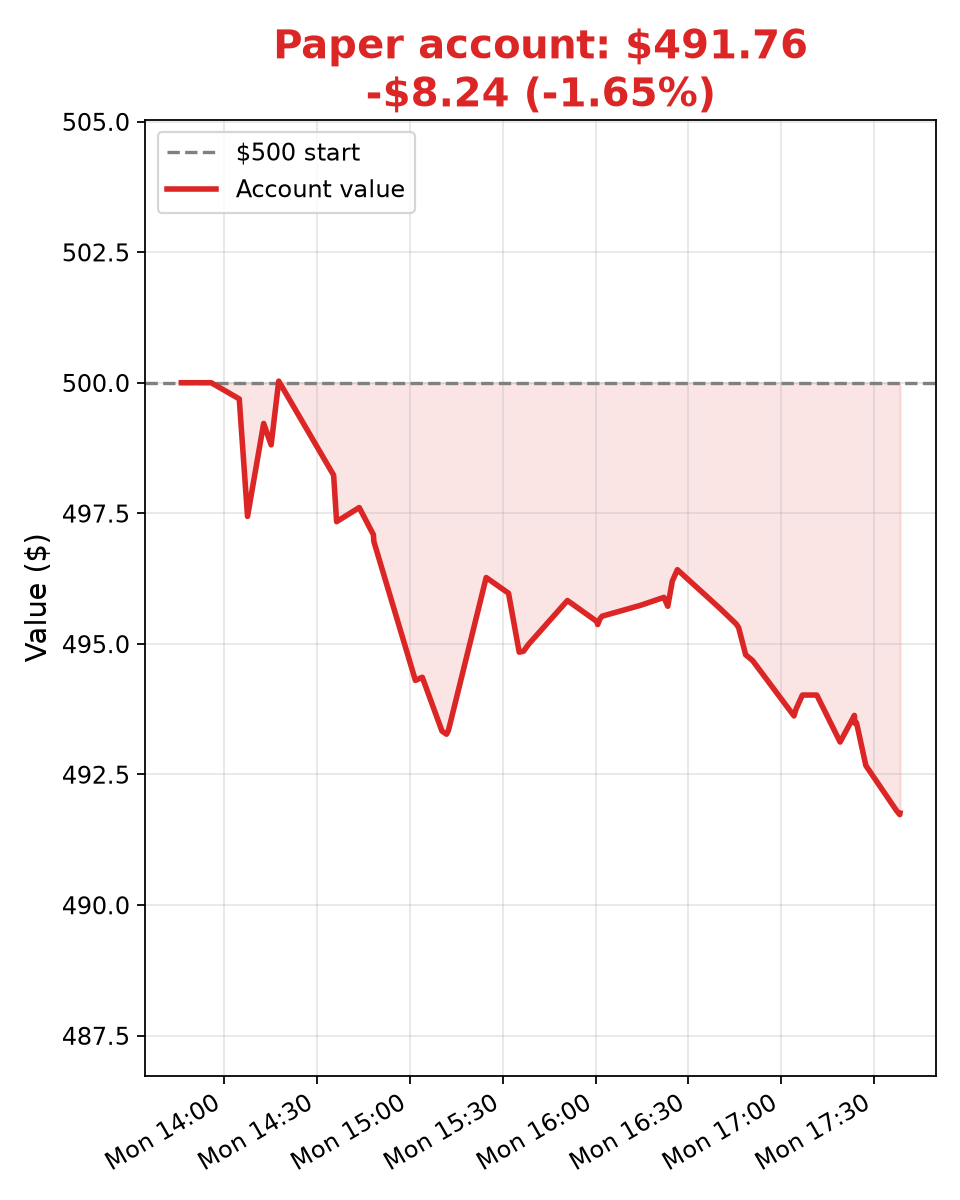
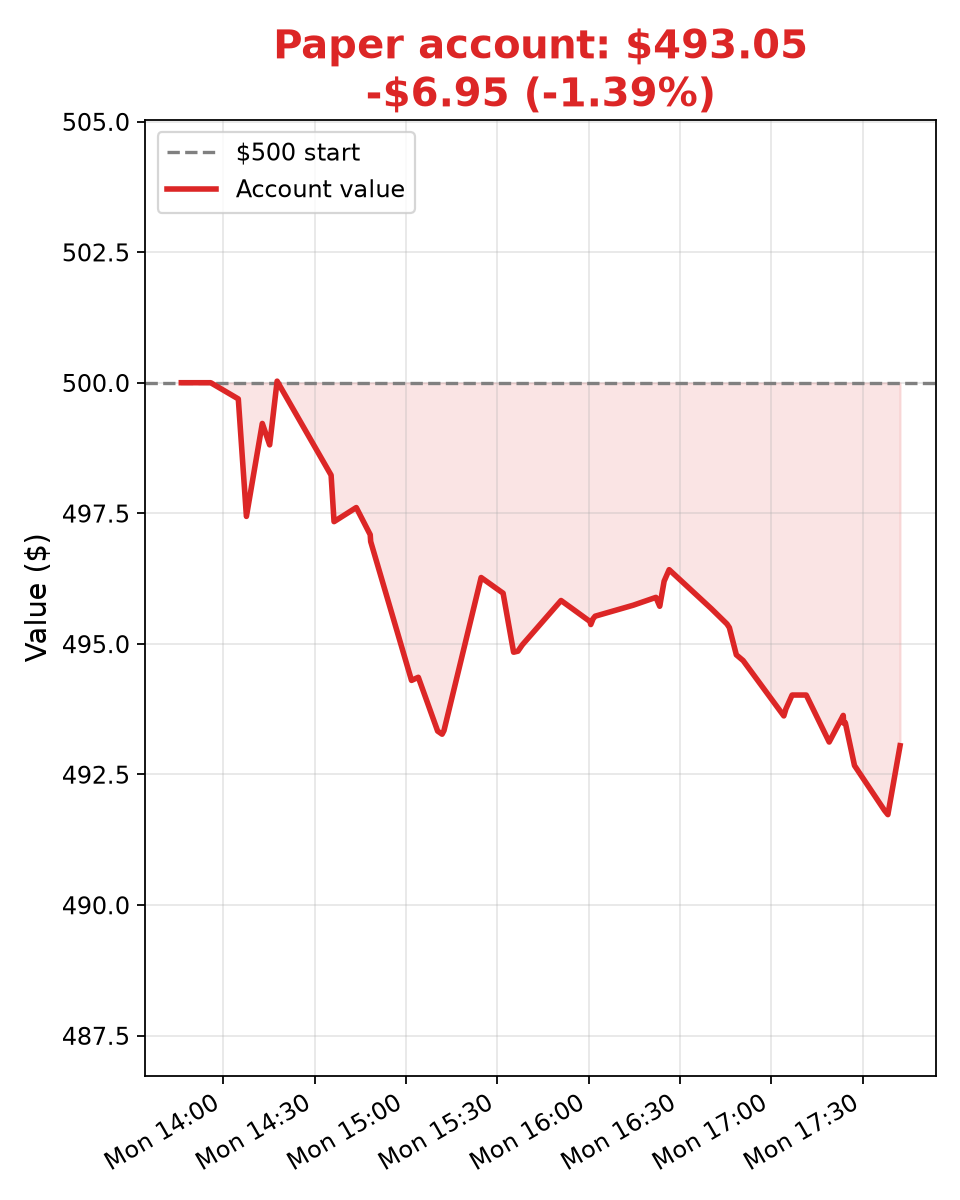
Update 2026-10-12T17:42:22Z

diff --git a/ledger.md b/ledger.md
@@ -80,3 +80,4 @@
 - 2026-10-12T17:37:10Z — total $491.81, cash $98.62 (Bot1 mark, no trade; FRO 58.305, DHT 25.67, ASTS 53.20 marked; no stops/targets hit — new afternoon lows on all three)
 - 2026-10-12T17:38:21Z — total $491.76, cash $98.62 (Bot4 mark, no trade; FRO 58.32, DHT 25.66, ASTS 53.18 marked; no stops/targets hit)
 - 2026-10-12T17:38:16Z — total $491.73, cash $98.62 (Stock Bot mark, no trade; FRO 58.32, DHT 25.66, ASTS 53.165 marked; no stops/targets hit)
+- 2026-10-12T17:42:16Z — total $493.05, cash $98.62 (Bot2 mark, no trade; FRO 58.58, DHT 25.835, ASTS 53.00 marked; no stops/targets hit — tankers bouncing off afternoon lows, ASTS drifting toward 52.77 LOD, 0.60 above stop)
